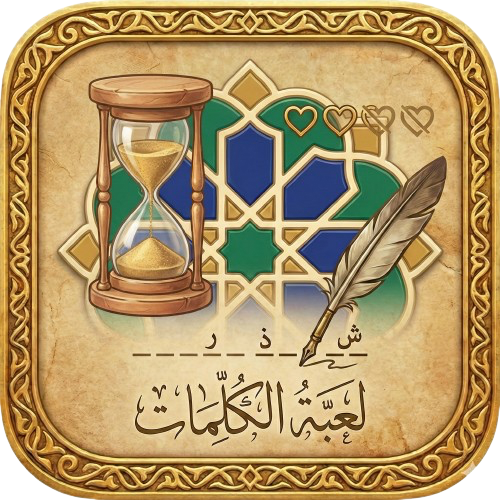
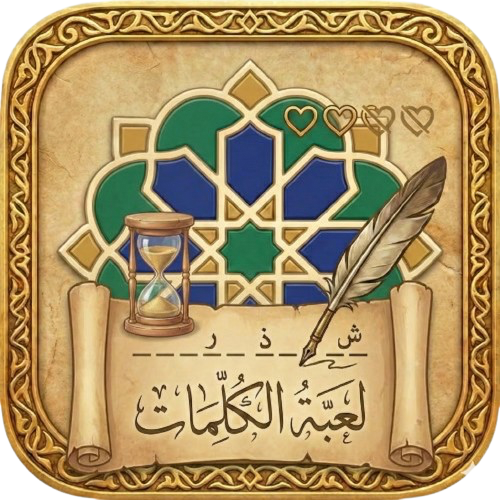
feat: add word game state class properties and themed start screen

diff --git a/src/css/style.css b/src/css/style.css
@@ -872,3 +872,16 @@ body, html {
   font-weight: bold;
   color: var(--color-wood);
 }
+
+/* =========================================
+   9. WORD GAME (THE SCROLL)
+   ========================================= */
+/* --- Layout --- */
+.word-game-layout {
+  display: flex;
+  flex-direction: column;
+  align-items: center;
+  justify-content: center;
+  text-align: center;
+  background-color: var(--color-sandstone);
+}

diff --git a/src/js/WordGame.js b/src/js/WordGame.js
@@ -38,6 +38,10 @@ export class WordGame extends Window {
 
     // Theme: The Scroll Icon
     const icon = document.createElement('div')
+    const logo = document.createElement('img')
+    logo.src = './img/word-icon.png'
+    logo.alt = 'Scroll Icon'
+    logo.className = 'word-logo'
 
     const title = document.createElement('h2')
     title.textContent = "The Caliph's Scroll"
